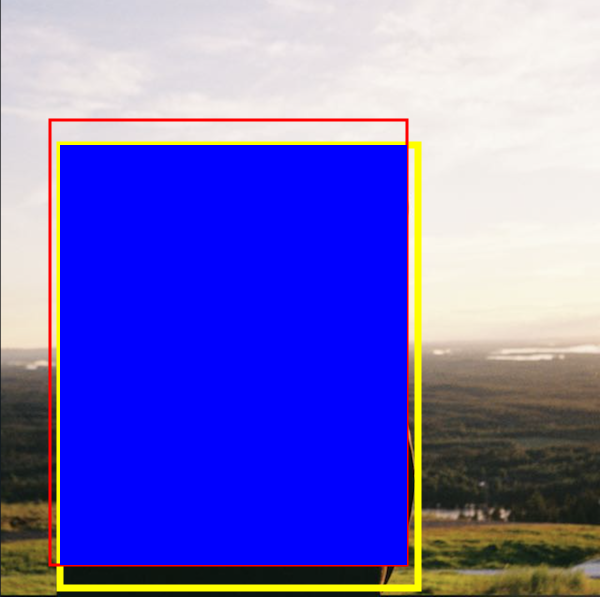
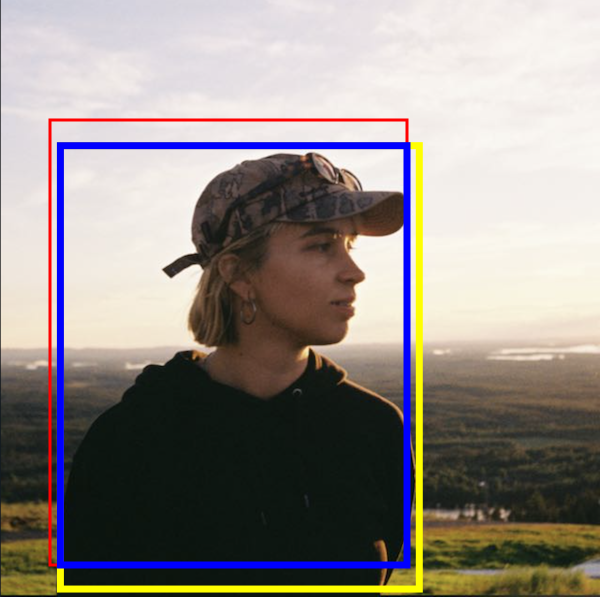
implemented drawing bounding box from parameters, not from hard coded data

diff --git a/controllers/boundingBoxes.js b/controllers/boundingBoxes.js
@@ -1,15 +1,23 @@
 import { createCanvas, loadImage } from "canvas";
 import fs from "fs";
-// import {  } from "./functionality"
+import {
+  imageWidth,
+  imageHeight,
+  AWS_finalHeight,
+  AWS_finalWidth,
+  AWS_yStart,
+  AWS_xStart,
+} from "./functionality.js";
 
-const width = 600;
-const height = 597;
+// ground truth coordinates for person image
+let ground_xStart = 50;
+let ground_yStart = 120;
+let ground_width = 357;
+let ground_height = 445;
 
-export function create() {
-  const canvas = createCanvas(width, height);
+export function drawBoundingBoxes() {
+  const canvas = createCanvas(imageWidth, imageHeight);
   const context = canvas.getContext("2d");
-  //   context.fillStyle = "yellow";
-  //   context.fillRect(0, 0, width, height);
 
   loadImage("downloadImage.jpeg").then((image) => {
     context.drawImage(image, 0, 0);
@@ -17,53 +25,50 @@ export function create() {
     // the bounding box from AWS -> implement
     context.beginPath();
     // parameters: x and y start, width of box, height of box
-    context.rect(60, 145, 358, 443);
+    context.rect(AWS_xStart, AWS_yStart, AWS_finalWidth, AWS_finalHeight);
     context.lineWidth = 7;
     context.strokeStyle = "yellow";
     context.stroke();
 
     // ground truth -> implement
     context.beginPath();
-    context.rect(50, 120, 357, 445);
+    context.rect(ground_xStart, ground_yStart, ground_width, ground_height);
     context.lineWidth = 3;
     context.strokeStyle = "red";
     context.stroke();
 
-    findIntersection();
-    //intersection
+    // get the intersection area
+    let findInter = findIntersection();
+    let i = findInter.interSection;
+    // draw the intersection rectangle
     context.beginPath();
-    context.rect(60, 145, 347, 420);
+    context.rect(i[0], i[1], i[2], i[3]);
     context.lineWidth = 7;
-    // context.strokeStyle = "blue";
-    context.fillStyle = "blue";
-    context.fill();
-    // context.stroke();
+    // context.fillStyle = "blue";
+    // context.fill();
+    context.strokeStyle = "blue";
+    context.stroke();
 
     const buffer = canvas.toBuffer("image/png");
     fs.writeFileSync("./image.png", buffer);
-
-    calculateIOU();
   });
 }
 
 // https://www.geeksforgeeks.org/intersecting-rectangle-when-bottom-left-and-top-right-corners-of-two-rectangles-are-given/
 export function findIntersection() {
-  // parameters: x and y start, width of box, height of box
-  // const groundTruth = [50, 120, 357, 445];
-  // const AWSbox = [60, 145, 358, 443];
   let interSection = [];
 
   // AWS bounding box
-  const x1 = 60;
-  const y1 = 588;
-  const x2 = 418;
-  const y2 = 145;
+  const x1 = AWS_xStart;
+  const y1 = AWS_yStart + AWS_finalHeight;
+  const x2 = AWS_xStart + AWS_finalWidth;
+  const y2 = AWS_yStart;
 
   // "ground truth"
-  const x3 = 50;
-  const y3 = 565;
-  const x4 = 407;
-  const y4 = 120;
+  const x3 = ground_xStart;
+  const y3 = ground_yStart + ground_height;
+  const x4 = ground_xStart + ground_width;
+  const y4 = ground_yStart;
 
   // get bottom-left point of intersection rectangle
   var x5 = Math.max(x1, x3);
@@ -83,12 +88,17 @@ export function findIntersection() {
 
   // data needed for drawing the rectangle
   // x7 is the x starting point, y7 the y starting point
-  let xStart = x7;
-  let yStart = y7;
+  let intersection_xStart = x7;
+  let intersection_yStart = y7;
   let interSectionWidth = x8 - x7;
   let interSectionHeight = y8 - y7;
 
-  interSection = [xStart, yStart, interSectionWidth, interSectionHeight];
+  interSection = [
+    intersection_xStart,
+    intersection_yStart,
+    interSectionWidth,
+    interSectionHeight,
+  ];
 
   let interSectionArea = interSectionWidth * interSectionHeight;
   // console.log("interSectionArea: ", interSectionArea);
@@ -105,23 +115,20 @@ export function findIntersection() {
 export function calculateIOU() {
   // get the intersection of the two rectangles
   let findInter = findIntersection();
-  let interArea = findInter.interSectionArea;
-  console.log("interSection area: ", interArea);
+  let intersectionArea = findInter.interSectionArea;
+  // console.log("interSection area: ", interArea);
 
-  //get the union of the two rectangles
+  // get the union of the two rectangles
   // 1. calculate the area of the individual boxes
-  // parameters: x and y start, width of box, height of box
-  // const groundTruth = [50, 120, 357, 445];
-  // const AWSbox = [60, 145, 358, 443];
+  let areaAWS = AWS_finalWidth * AWS_finalHeight;
+  let groundTruthArea = ground_width * ground_height;
+  let bothAreas = areaAWS + groundTruthArea;
 
-  let areaAWS = 358 * 443;
-  let areaGroundTruth = 357 * 445;
-  let both = areaAWS + areaGroundTruth;
   // union is the union minus the part which is included in both rectangles,
   // otherwise we would have the intersection area twice
-  let union = both - interArea;
+  let union = bothAreas - intersectionArea;
 
   // divide intersection / union
-  let IOU = interArea / union;
+  let IOU = intersectionArea / union;
   console.log("IOU: ", IOU);
 }

diff --git a/controllers/functionality.js b/controllers/functionality.js
@@ -5,9 +5,12 @@ import {
   DetectLabelsCommand,
 } from "@aws-sdk/client-rekognition";
 import sizeOf from "buffer-image-size";
-import { create } from "./createCanvas.js";
+import {
+  drawBoundingBoxes,
+  findIntersection,
+  calculateIOU,
+} from "./boundingBoxes.js";
 import { editMetadata } from "./exifTool.js";
-// import exif from "exiftool";
 // import { checkCategories } from "./imageCategories.js";
 
 const router = express.Router();
@@ -17,21 +20,27 @@ const rekognitionClient = new RekognitionClient({ region: "eu-central-1" });
 // array for the labels
 export let labelArr = [];
 
+// variables for the width and height of the input image
+export let imageWidth;
+export let imageHeight;
+
+// the dimensions of the AWS bounding box in pixels
+export let AWS_finalHeight;
+export let AWS_finalWidth;
+export let AWS_yStart;
+export let AWS_xStart;
+
 // variable for the data from the request image
 let buffer;
 
-// the attributes of a bounding box
+// the dimensions of the AWS bounding box in relation to the input image
 let bb_height;
 let bb_width;
-let bb_top;
-let bb_left;
-
-// variables for the width and height of the input image
-let imageWidth;
-let imageHeight;
+let topCoordinate;
+let leftCoordinate;
 
 // array for the bounding box for detected person
-let personBoundingBox = [];
+let personBoundingBox = []; // this array is maybe not needed as the individual coordinates are being exported
 
 router.post("/", upload.array("files"), async (req, res) => {
   buffer = req.files[0].buffer;
@@ -43,9 +52,6 @@ router.post("/", upload.array("files"), async (req, res) => {
     });
     // sends the detectLabelsCommand to the client
     const response = await rekognitionClient.send(detectLabelsCommand);
-    // return the labels from the response
-    const labels = response.Labels;
-
     // get the labels detected from the image
     response.Labels.forEach((result) => labelArr.push(result.Name));
     // console.log("labels found: ", labelArr);
@@ -54,12 +60,8 @@ router.post("/", upload.array("files"), async (req, res) => {
     var dimensions = sizeOf(buffer);
     imageWidth = dimensions.width;
     imageHeight = dimensions.height;
-    console.log(
-      "REQ image width: " + imageWidth,
-      "REQ image height: " + imageHeight
-    );
 
-    // --------- get the bounding box for person ---------
+    // get the bounding box for person
 
     response.Labels.forEach((label) => {
       // labelArr.push(i.Name);
@@ -68,13 +70,13 @@ router.post("/", upload.array("files"), async (req, res) => {
         label.Instances.forEach((instance) => {
           bb_height = instance.BoundingBox.Height;
           bb_width = instance.BoundingBox.Width;
-          bb_top = instance.BoundingBox.Top;
-          bb_left = instance.BoundingBox.Left;
+          topCoordinate = instance.BoundingBox.Top;
+          leftCoordinate = instance.BoundingBox.Left;
 
           personBoundingBox.push(
             "height: " + bb_height,
-            "left: " + bb_left,
-            "top: " + bb_top,
+            "left: " + leftCoordinate,
+            "top: " + topCoordinate,
             "width: " + bb_width
           );
         });
@@ -82,36 +84,42 @@ router.post("/", upload.array("files"), async (req, res) => {
     });
 
     // get the location of the bounding box in pixels
-    let finalHeight = bb_height * imageHeight;
-    let finalWidth = bb_width * imageWidth;
-    let topCoordinate = bb_top * imageHeight;
-    let leftCoordinate = bb_left * imageWidth;
+    AWS_finalHeight = bb_height * imageHeight;
+    AWS_finalWidth = bb_width * imageWidth;
+    AWS_yStart = topCoordinate * imageHeight;
+    AWS_xStart = leftCoordinate * imageWidth;
 
     console.log(
       "AWS bounding box: ",
-      "finalHeight: ",
-      finalHeight,
-      "finalWidth: ",
-      finalWidth,
-      "topCoordinate: ",
-      topCoordinate,
-      "leftCoordinate: ",
-      leftCoordinate
+      "AWS_finalHeight: ",
+      AWS_finalHeight,
+      "AWS_finalWidth: ",
+      AWS_finalWidth,
+      "AWS_yStart: ",
+      AWS_yStart,
+      "AWS_xStart: ",
+      AWS_xStart
     );
 
     // Draw bounding boxes, calculate IOU
-    create();
+    drawBoundingBoxes();
+
+    // find Intersection of the two rectangles
+    findIntersection();
+
+    // calculate the IOU
+    calculateIOU();
 
     // Write labels into the image metadata
     editMetadata(buffer);
 
-    // console.log("personBoundingBox: ", personBoundingBox);
+    console.log("personBoundingBox: ", personBoundingBox);
     // console.log("response: ", response);
 
     // call the checkCategories function here
     // checkCategories();
 
-    res.send(labels ?? "No labels found");
+    res.send(response.Labels ?? "No labels detected from the image!");
   } catch (err) {
     console.log(err);
     res.send(err);

diff --git a/controllers/exifTool.js b/controllers/exifTool.js
@@ -22,7 +22,7 @@ export function editMetadata(buffer) {
             image,
             {
               // all: "", // remove existing tags
-              comment: "Exiftool rules!",
+              comment: "Exiftool rules!", // change this?
               subject: labelArr,
             },
             ["overwrite_original"]
